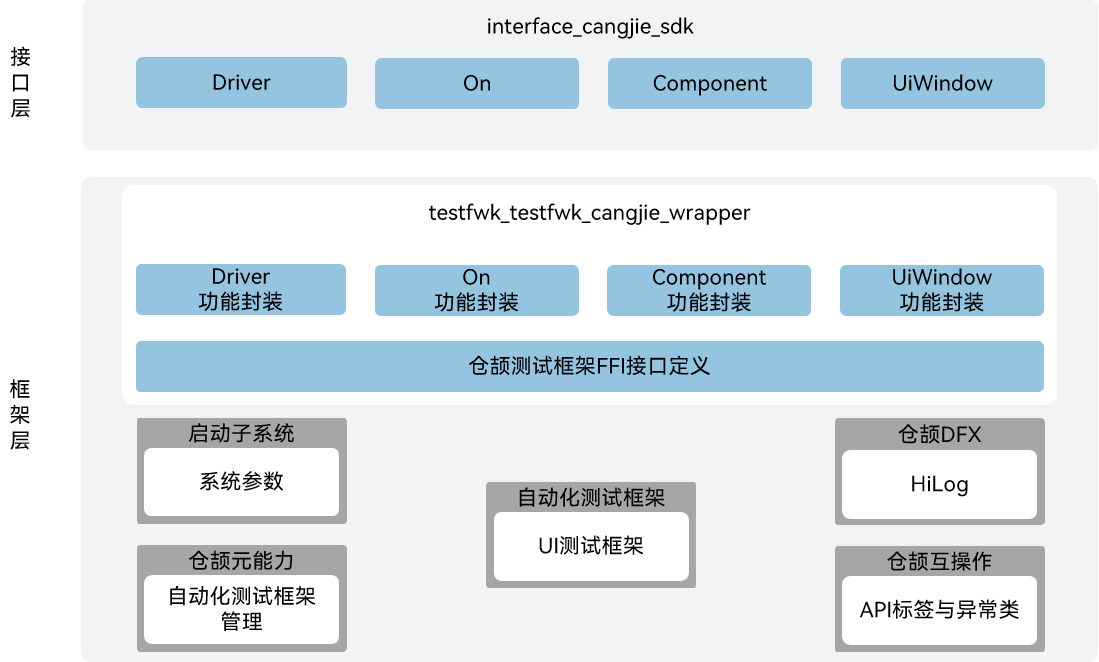
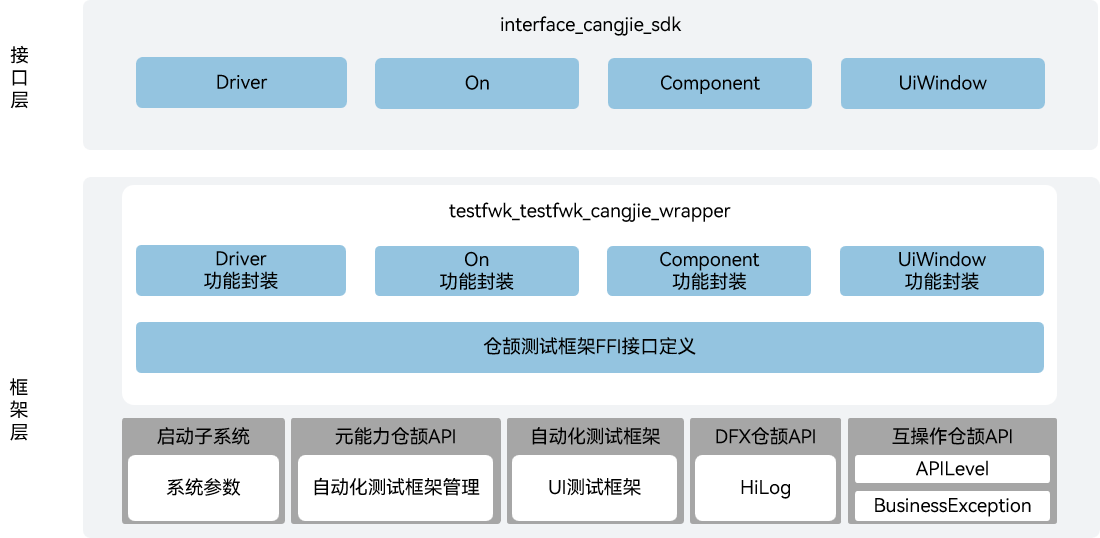
fix readme

diff --git a/README_zh.md b/README_zh.md
@@ -19,9 +19,6 @@
 - 仓颉测试框架FFI接口定义：负责定义C语言互操作仓颉接口，用于实现仓颉测试框架能力。
 - 自动化测试框架：负责提供UI测试基础能力，封装C语言接口提供给仓颉进行互操作。
 - 启动子系统: 提供系统参数查询能力，用于判断当前环境是否支持测试。
-- 仓颉元能力：提供自动化测试框架管理能力，用于监视指定的Ability的生命周期状态更改和获取测试参数。
-- 仓颉DFX：提供日志系统，使应用/服务可以按照指定级别、标识和格式字符串输出日志内容。
-- 仓颉互操作：提供API标签与异常类。
 
 ## 目录
 
@@ -32,7 +29,9 @@ test/testfwk/testfwk_cangjie_wrapper
 │   └── TestKit     # 测试框架kit模块
 └── ohos            # 仓颉测试框架接口实现
 │   └── ui_test     # UI测试框架实现
-└── test            # 仓颉测试框架测试用例
+└── test            # 测试用例
+    └── APILevel22
+        └── uitest  # UI测试框架测试用例
 ```
 
 ## 使用说明
@@ -42,12 +41,12 @@ test/testfwk/testfwk_cangjie_wrapper
 - 编写测试用例、断言、执行测试用例以及生成测试报告的能力。
 - 定位和操作UI组件的能力。
 
-与ArkTs能力相比，有以下差异：
+与ArkTs提供的API能力相比，有以下差异：
 
 - 单元测试框架基于仓颉语言自带的单元测试库std.unittest实现。
 - 暂不支持白盒性能测试框架。
 
-UI测试相关的API请参见[ohos.ui_test（UI测试）](https://gitcode.com/openharmony-sig/arkcompiler_cangjie_ark_interop/blob/master/doc/API_Reference/source_zh_cn/apis/TestKit/cj-apis-ui_test.md)，相关指导请参见[自动化测试框架使用指南](https://gitcode.com/openharmony-sig/arkcompiler_cangjie_ark_interop/blob/master/doc/Dev_Guide/source_zh_cn/application-test/cj-arkxtest-guidelines.md)。
+UI测试相关的接口请参见[UI测试API文档](https://gitcode.com/openharmony-sig/arkcompiler_cangjie_ark_interop/blob/master/doc/API_Reference/source_zh_cn/apis/TestKit/cj-apis-ui_test.md)，相关开发指导请参见[自动化测试框架使用指南](https://gitcode.com/openharmony-sig/arkcompiler_cangjie_ark_interop/blob/master/doc/Dev_Guide/source_zh_cn/application-test/cj-arkxtest-guidelines.md)。
 
 ## 参与贡献
 

diff --git a/README.md b/README.md
@@ -19,9 +19,6 @@ As shown in the architecture diagram, the Cangjie test framework API provides UI
 - Cangjie Testfwk FFI Interface Definition: Responsible for defining C interoperation Cangjie interfaces, used to implement Cangjie test framework capabilities.
 - arkxtest: Responsible for providing UI test basic capabilities, encapsulating C interfaces for interoperation with Cangjie.
 - init: Provides system parameter query capabilities, used to determine whether the current environment supports testing.
-- ability: Provides automated test framework management capabilities, used to monitor the lifecycle status changes of specified Ability and obtain test parameters.
-- hiviewdfx: Provides a logging system, enabling applications/services to output log content according to specified levels, identifiers, and format strings.
-- ark_interop: Provides APILevel and BusinessException.
 
 ## Directory Structure
 
@@ -33,6 +30,8 @@ test/testfwk/testfwk_cangjie_wrapper
 └── ohos            # Cangjie test framework interface implementation
 │   └── ui_test     # UI test framework implementation
 └── test            # Cangjie test framework test cases
+    └── APILevel22
+        └── uitest  # UI test framework test cases
 ```
 
 ## Usage
@@ -42,7 +41,7 @@ The Cangjie test framework API currently provides the following functions:
 - Capabilities for writing test cases, assertions, executing test cases, and generating test reports.
 - Capabilities for locating and operating UI components.
 
-Compared to ArkTs, there are the following differences:
+Compared to ArkTs API, there are the following differences:
 
 - The unit test framework is implemented based on the unit test library std.unittest that comes with Cangjie.
 
